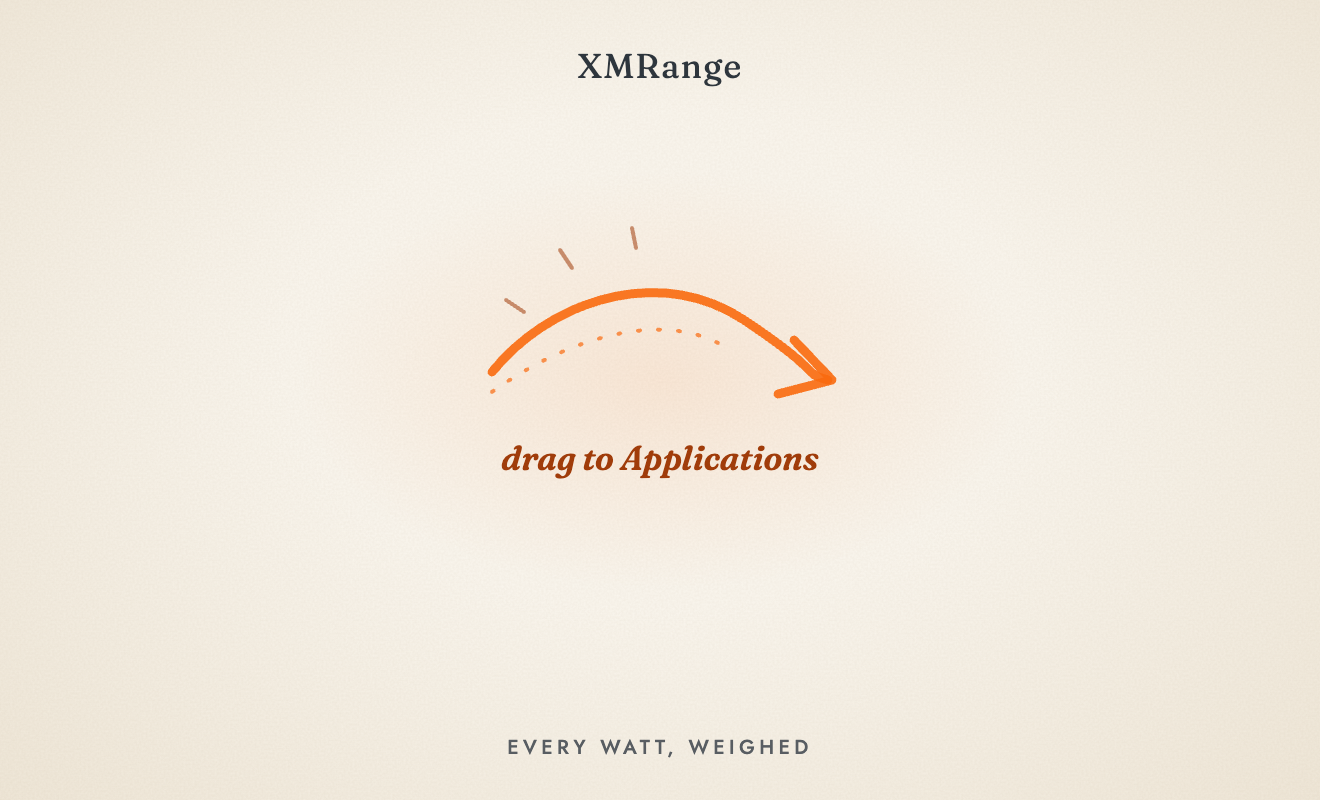
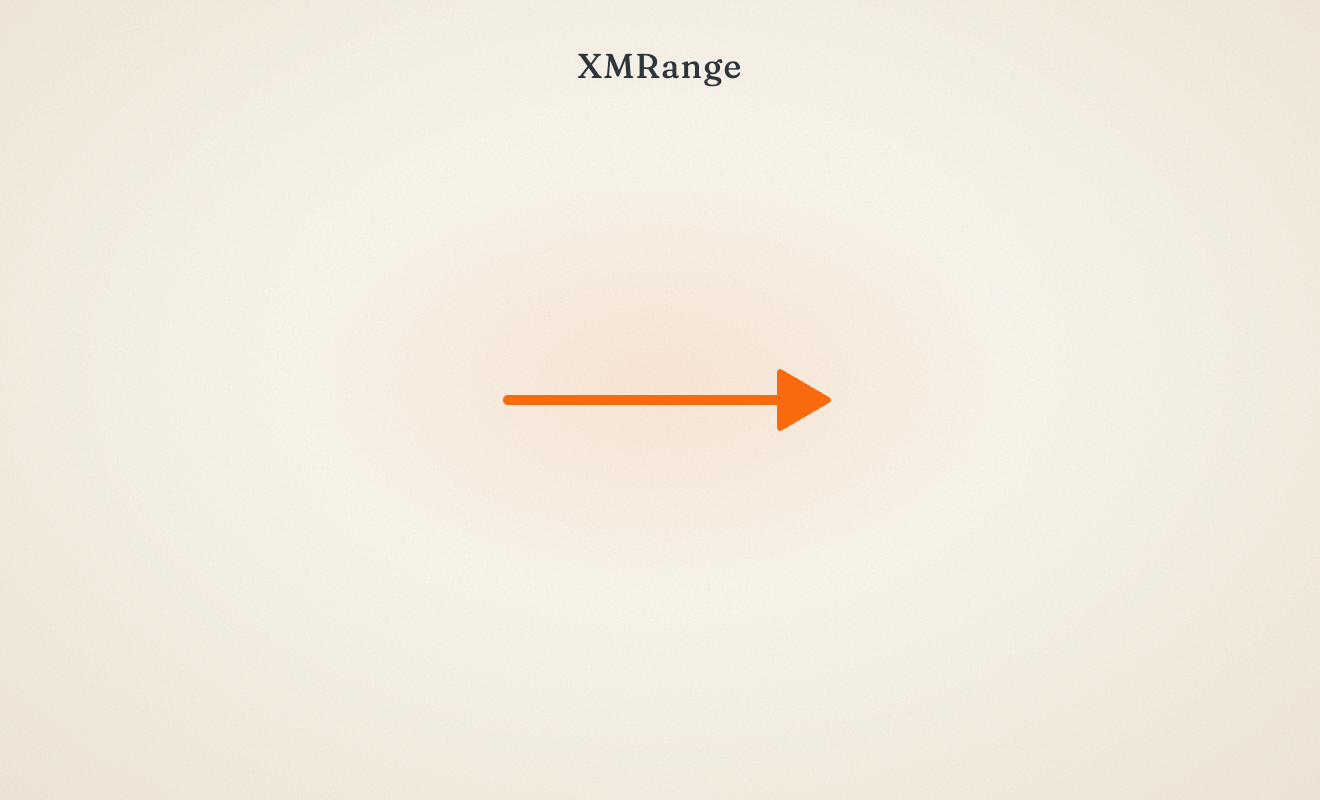
XMRange 0.0.4

diff --git a/assets/dmg/background.html b/assets/dmg/background.html
@@ -1,8 +1,6 @@
 <!doctype html><meta charset="utf-8">
 <style>
 @font-face{font-family:Fraunces;font-weight:400;src:url(../fonts/fraunces-latin-400-normal.woff2)}
-@font-face{font-family:Fraunces;font-weight:600;font-style:italic;src:url(../fonts/fraunces-latin-600-italic.woff2)}
-@font-face{font-family:Jost;font-weight:500;src:url(../fonts/jost-latin-500-normal.woff2)}
 html,body{margin:0}
 #c{position:relative;width:660px;height:400px;overflow:hidden;background:
  radial-gradient(ellipse 260px 150px at 330px 190px,rgba(249,106,14,.10),transparent 70%),
@@ -10,8 +8,6 @@ html,body{margin:0}
 svg{position:absolute;left:0;top:0}
 .t{position:absolute;left:0;width:660px;text-align:center;color:#2e363d}
 #w{top:22px;font:400 17px Fraunces;letter-spacing:.04em}
-#d{top:218px;font:italic 600 17px Fraunces;color:#a03c0a}
-#g{top:366px;font:500 10px Jost;letter-spacing:.22em;text-transform:uppercase;color:#585d62}
 .ic{display:none;position:absolute;top:136px;width:128px;height:128px}
 .lb{display:none;position:absolute;top:268px;width:128px;text-align:center;font:13px -apple-system,system-ui;color:#333}
 .p .ic,.p .lb{display:block}
@@ -19,12 +15,9 @@ svg{position:absolute;left:0;top:0}
 <div id="c"><svg width="660" height="400" viewBox="0 0 660 400">
 <defs><filter id="n"><feTurbulence type="fractalNoise" baseFrequency=".9" numOctaves="2" seed="7"/><feColorMatrix values="0 0 0 0 .3  0 0 0 0 .2  0 0 0 0 .1  0 0 0 .5 0"/></filter></defs>
 <rect width="660" height="400" filter="url(#n)" opacity=".16"/>
-<g fill="none" stroke-linecap="round">
-<path d="M246 186 C 275 150, 330 132, 372 160 S 400 186, 414 190" stroke="#f96a0e" stroke-width="4.5" opacity=".9"/>
-<path d="M246 196 C 285 168, 330 156, 360 172" stroke="#f96a0e" stroke-width="2" stroke-dasharray="1 9" opacity=".7"/>
-<path d="M397 170 L 416 190 L 389 197" stroke="#f96a0e" stroke-width="4.5" stroke-linejoin="round" opacity=".9"/>
-<path d="M262 156 l-9 -6 M286 134 l-6 -9 M318 124 l-2 -10" stroke="#a03c0a" stroke-width="2" opacity=".55"/>
-</g></svg>
-<div class="t" id="w">XMRange</div><div class="t" id="d">drag to Applications</div><div class="t" id="g">every watt, weighed</div>
-<img class="ic" style="left:101px" src="../../crates/xmrange-app/icons/icon.png"><img class="ic" style="left:431px" src="../../crates/xmrange-app/icons/icon.png">
+<line x1="254" y1="200" x2="392" y2="200" stroke="#f96a0e" stroke-width="5" stroke-linecap="round"/>
+<polygon points="390,186 414,200 390,214" fill="#f96a0e" stroke="#f96a0e" stroke-width="3" stroke-linejoin="round"/>
+</svg>
+<div class="t" id="w">XMRange</div>
+<img class="ic" style="left:101px" src="../../crates/xmrange-app/icons/icon.png"><svg class="ic" style="left:431px" viewBox="0 0 128 128"><path d="M10 30 q0-8 8-8 h30 l10 10 h52 q8 0 8 8 v62 q0 8-8 8 H18 q-8 0-8-8z" fill="#3d8fd9"/><path d="M10 44 q0-6 6-6 h96 q6 0 6 6 v58 q0 8-8 8 H18 q-8 0-8-8z" fill="#5fb0f0"/><path d="M46 92 l18-30 l18 30z" fill="none" stroke="#2f78bd" stroke-width="5" stroke-linejoin="round"/></svg>
 <div class="lb" style="left:101px">XMRange</div><div class="lb" style="left:431px">Applications</div></div>

diff --git a/tools/dmg-settings.py b/tools/dmg-settings.py
@@ -1,0 +1,21 @@
+# The XMRange.dmg window, for dmgbuild (tools/build-dmgbuild.sh): the app on the left, the
+# Applications shortcut on the right, assets/dmg/background.png (+ its @2x twin) behind them.
+# Icon spots are icon centres in the 660x400 window, matching assets/dmg/background.html.
+# Run with: -D app=<path to XMRange.app> -D background=<path to background.png>
+import os
+
+app = defines["app"]  # noqa: F821 (dmgbuild provides `defines`)
+format = "UDZO"
+files = [app]
+symlinks = {"Applications": "/Applications"}
+background = defines["background"]  # noqa: F821
+window_rect = ((200, 120), (660, 400))
+default_view = "icon-view"
+show_status_bar = False
+show_tab_view = False
+show_toolbar = False
+show_pathbar = False
+show_sidebar = False
+icon_size = 128
+text_size = 13
+icon_locations = {os.path.basename(app): (165, 200), "Applications": (495, 200)}
